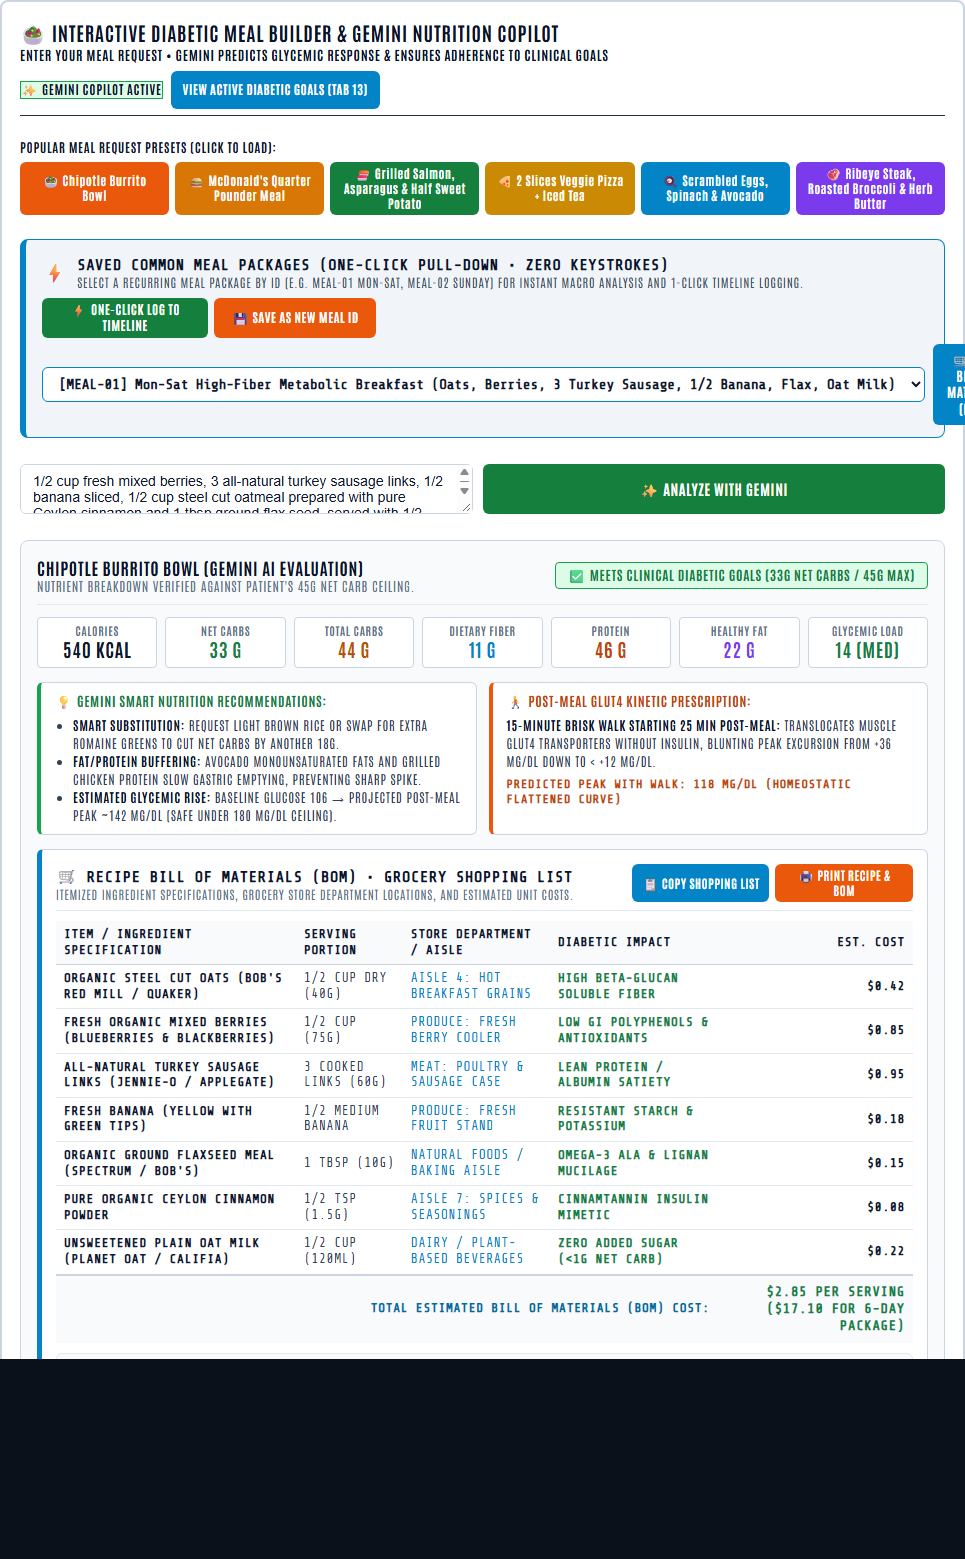
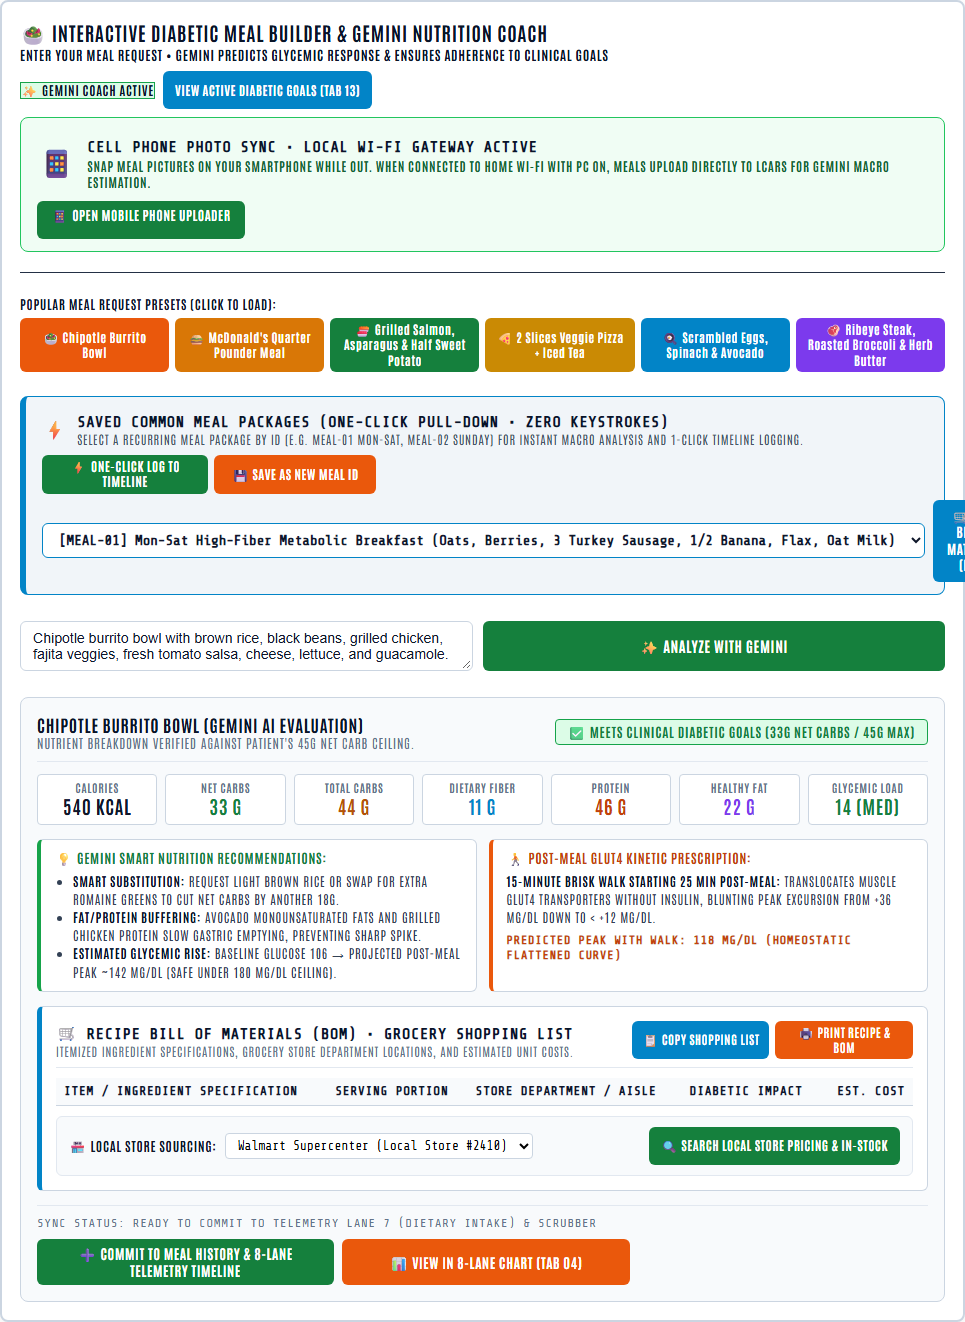
fix(diet): remove broken 00. Smart Notifier card and replace Copilot with Coach across app and presentation

diff --git a/index.html b/index.html
@@ -4965,43 +4965,14 @@
             </div>
           </div>
 
-          <!-- Component 0: Closed-Loop Glucose Smart Snack Notifier & Safe Operating Area -->
-          <div class="setup-section" style="border-left-color: var(--lcars-green); margin-bottom: 22px; background: rgba(85,255,119,0.03);">
-            <div class="setup-section-title" style="display: flex; justify-content: space-between; align-items: center; flex-wrap: wrap; gap: 8px;">
-              <div>
-                <span style="color: var(--lcars-green);">00. SMART GLUCOSE-DRIVEN SNACK & MEAL NOTIFIER</span>
-                <span style="font-size: 0.8rem; color: var(--lcars-green); display: block; margin-top: 2px;">CLOSED-LOOP TELEMETRY TO DIETARY GUIDANCE</span>
-              </div>
-              <div style="display: flex; gap: 8px; align-items: center;">
-                <span style="font-size: 0.8rem; color: #80c890;">CURRENT GLUCOSE:</span>
-                <span id="notifierCurrentGlucose" style="font-family: var(--lcars-mono); font-size: 1.2rem; font-weight: bold; color: var(--lcars-banana);">106 mg/dL</span>
-              </div>
-            </div>
-
-            <!-- Dynamic Notification Card -->
-            <div id="smartGlucoseNotificationCard" style="background: #06110a; border: 1px solid #1a3822; padding: 12px 16px; border-radius: 6px; margin-top: 8px; display: flex; align-items: center; gap: 14px;">
-              <div id="trafficLightIndicator" style="width: 22px; height: 22px; border-radius: 50%; background: var(--lcars-green); box-shadow: 0 0 10px var(--lcars-green); flex-shrink: 0;"></div>
-              <div style="flex: 1;">
-                <strong id="notifierTitle" style="color: var(--lcars-green); font-size: 0.95rem;">SAFE OPERATING ZONE ACTIVE • TARGET GLYCEMIC BAND</strong>
-                <div id="notifierMessage" style="font-size: 0.85rem; color: #b0d0c0; margin-top: 2px; line-height: 1.4;">
-                  Your current reading is in the optimal target zone (106 mg/dL). Fuel your body with clean zero-sugar options like pastured hard-boiled eggs, celery with natural almond butter, or iced hibiscus tea.
-                </div>
-              </div>
-              <button class="lcars-pill pill-green" style="font-size: 0.75rem; padding: 5px 12px; height: auto;" onclick="refreshGlucoseRecommendation()">
-                <span>SYNC SUGGESTIONS</span>
-              </button>
-            </div>
-          </div>
-
-          
           <!-- =========================================================================
-               COMPONENT 01: INTERACTIVE DIABETIC MEAL BUILDER & GEMINI NUTRITION COPILOT
+               COMPONENT 01: INTERACTIVE DIABETIC MEAL BUILDER & GEMINI NUTRITION COACH
                ========================================================================= -->
           <div class="setup-section" style="border-left-color: #16a34a; margin-bottom: 22px; background: #ffffff; border: 1.5px solid #cbd5e1; border-left: 6px solid #16a34a; border-radius: 8px; padding: 18px;">
             <div class="setup-section-title" style="display: flex; justify-content: space-between; align-items: center; flex-wrap: wrap; gap: 8px; margin-bottom: 12px;">
               <div>
                 <span style="color: #15803d; font-size: 1.2rem; font-weight: 900; letter-spacing: 0.05em;">
-                  🥗 INTERACTIVE DIABETIC MEAL BUILDER &amp; GEMINI NUTRITION COPILOT
+                  🥗 INTERACTIVE DIABETIC MEAL BUILDER &amp; GEMINI NUTRITION COACH
                 </span>
                 <span style="font-size: 0.82rem; color: #475569; display: block; margin-top: 2px;">
                   ENTER YOUR MEAL REQUEST &bull; GEMINI PREDICTS GLYCEMIC RESPONSE &amp; ENSURES ADHERENCE TO CLINICAL GOALS
@@ -5009,7 +4980,7 @@
               </div>
               <div style="display: flex; gap: 8px; align-items: center;">
                 <span class="badge" style="background: #dcfce7; color: #15803d; border: 1.5px solid #16a34a; font-weight: 800; font-size: 0.78rem;">
-                  ✨ GEMINI COPILOT ACTIVE
+                  ✨ GEMINI COACH ACTIVE
                 </span>
                 <button class="lcars-btn btn-blue" style="font-size: 0.78rem; padding: 4px 12px;" onclick="switchTab('goals')">
                   VIEW ACTIVE DIABETIC GOALS (TAB 13)
@@ -10248,7 +10219,7 @@
     }
 
     // =========================================================================
-    // INTERACTIVE DIABETIC MEAL BUILDER & GEMINI NUTRITION COPILOT
+    // INTERACTIVE DIABETIC MEAL BUILDER & GEMINI NUTRITION COACH
     // =========================================================================
     const MEAL_BUILDER_PRESETS = {
       chipotle: {

diff --git a/w11_htm_app/index.html b/w11_htm_app/index.html
@@ -4965,43 +4965,14 @@
             </div>
           </div>
 
-          <!-- Component 0: Closed-Loop Glucose Smart Snack Notifier & Safe Operating Area -->
-          <div class="setup-section" style="border-left-color: var(--lcars-green); margin-bottom: 22px; background: rgba(85,255,119,0.03);">
-            <div class="setup-section-title" style="display: flex; justify-content: space-between; align-items: center; flex-wrap: wrap; gap: 8px;">
-              <div>
-                <span style="color: var(--lcars-green);">00. SMART GLUCOSE-DRIVEN SNACK & MEAL NOTIFIER</span>
-                <span style="font-size: 0.8rem; color: var(--lcars-green); display: block; margin-top: 2px;">CLOSED-LOOP TELEMETRY TO DIETARY GUIDANCE</span>
-              </div>
-              <div style="display: flex; gap: 8px; align-items: center;">
-                <span style="font-size: 0.8rem; color: #80c890;">CURRENT GLUCOSE:</span>
-                <span id="notifierCurrentGlucose" style="font-family: var(--lcars-mono); font-size: 1.2rem; font-weight: bold; color: var(--lcars-banana);">106 mg/dL</span>
-              </div>
-            </div>
-
-            <!-- Dynamic Notification Card -->
-            <div id="smartGlucoseNotificationCard" style="background: #06110a; border: 1px solid #1a3822; padding: 12px 16px; border-radius: 6px; margin-top: 8px; display: flex; align-items: center; gap: 14px;">
-              <div id="trafficLightIndicator" style="width: 22px; height: 22px; border-radius: 50%; background: var(--lcars-green); box-shadow: 0 0 10px var(--lcars-green); flex-shrink: 0;"></div>
-              <div style="flex: 1;">
-                <strong id="notifierTitle" style="color: var(--lcars-green); font-size: 0.95rem;">SAFE OPERATING ZONE ACTIVE • TARGET GLYCEMIC BAND</strong>
-                <div id="notifierMessage" style="font-size: 0.85rem; color: #b0d0c0; margin-top: 2px; line-height: 1.4;">
-                  Your current reading is in the optimal target zone (106 mg/dL). Fuel your body with clean zero-sugar options like pastured hard-boiled eggs, celery with natural almond butter, or iced hibiscus tea.
-                </div>
-              </div>
-              <button class="lcars-pill pill-green" style="font-size: 0.75rem; padding: 5px 12px; height: auto;" onclick="refreshGlucoseRecommendation()">
-                <span>SYNC SUGGESTIONS</span>
-              </button>
-            </div>
-          </div>
-
-          
           <!-- =========================================================================
-               COMPONENT 01: INTERACTIVE DIABETIC MEAL BUILDER & GEMINI NUTRITION COPILOT
+               COMPONENT 01: INTERACTIVE DIABETIC MEAL BUILDER & GEMINI NUTRITION COACH
                ========================================================================= -->
           <div class="setup-section" style="border-left-color: #16a34a; margin-bottom: 22px; background: #ffffff; border: 1.5px solid #cbd5e1; border-left: 6px solid #16a34a; border-radius: 8px; padding: 18px;">
             <div class="setup-section-title" style="display: flex; justify-content: space-between; align-items: center; flex-wrap: wrap; gap: 8px; margin-bottom: 12px;">
               <div>
                 <span style="color: #15803d; font-size: 1.2rem; font-weight: 900; letter-spacing: 0.05em;">
-                  🥗 INTERACTIVE DIABETIC MEAL BUILDER &amp; GEMINI NUTRITION COPILOT
+                  🥗 INTERACTIVE DIABETIC MEAL BUILDER &amp; GEMINI NUTRITION COACH
                 </span>
                 <span style="font-size: 0.82rem; color: #475569; display: block; margin-top: 2px;">
                   ENTER YOUR MEAL REQUEST &bull; GEMINI PREDICTS GLYCEMIC RESPONSE &amp; ENSURES ADHERENCE TO CLINICAL GOALS
@@ -5009,7 +4980,7 @@
               </div>
               <div style="display: flex; gap: 8px; align-items: center;">
                 <span class="badge" style="background: #dcfce7; color: #15803d; border: 1.5px solid #16a34a; font-weight: 800; font-size: 0.78rem;">
-                  ✨ GEMINI COPILOT ACTIVE
+                  ✨ GEMINI COACH ACTIVE
                 </span>
                 <button class="lcars-btn btn-blue" style="font-size: 0.78rem; padding: 4px 12px;" onclick="switchTab('goals')">
                   VIEW ACTIVE DIABETIC GOALS (TAB 13)
@@ -10248,7 +10219,7 @@
     }
 
     // =========================================================================
-    // INTERACTIVE DIABETIC MEAL BUILDER & GEMINI NUTRITION COPILOT
+    // INTERACTIVE DIABETIC MEAL BUILDER & GEMINI NUTRITION COACH
     // =========================================================================
     const MEAL_BUILDER_PRESETS = {
       chipotle: {
